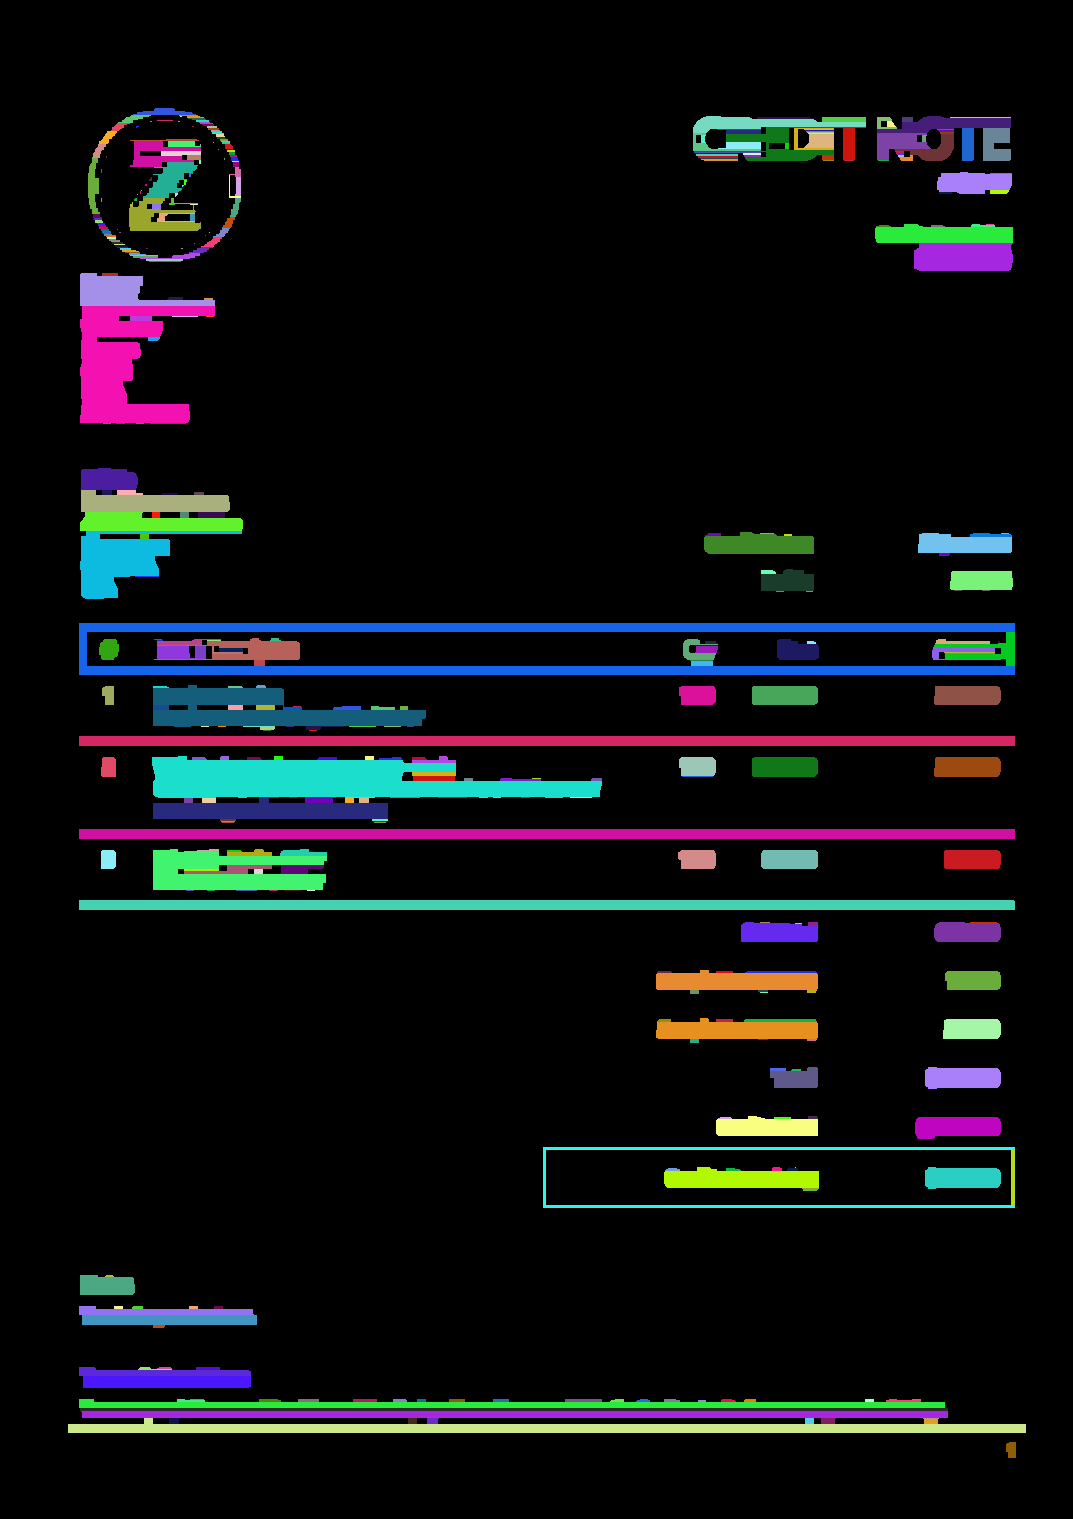
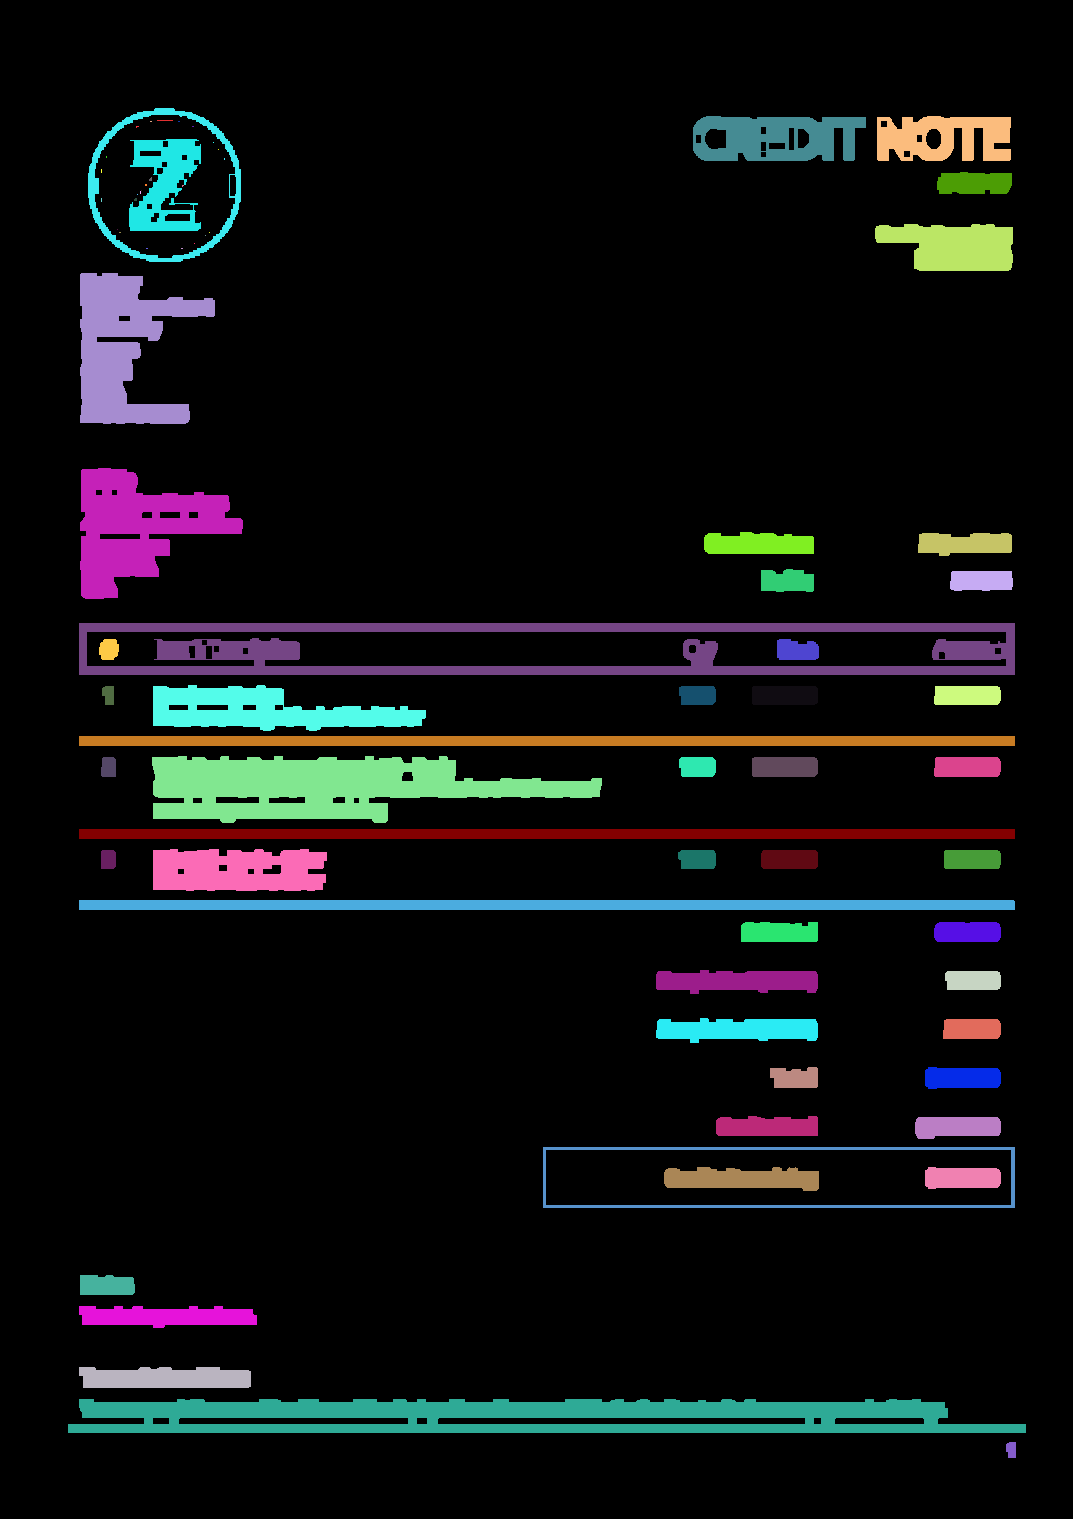
Segmentation v2

diff --git a/BoxIdentification.py b/BoxIdentification.py
@@ -1,6 +1,7 @@
 import cv2
 import numpy as np
 import utilities as utl
+from collections import deque
 
 def showImage(img, imgName):
 	resimg = img[0]
@@ -32,20 +33,16 @@ showImage([img,imgFil3,img1], 'img')
 
 
 def MarkSegment(seg, i, j, segmentCount):
-	seg[i][j] = segmentCount
-	## Mark Right
-	k = j+1
-	while seg[i][k] == -1:
-		seg[i][k] = segmentCount
-		k += 1
-	## Mark Left
-	k = j-1
-	while seg[i][k] == -1:
-		seg[i][k] = segmentCount
-		k -= 1 
-	if seg[i+1][j] == -1: MarkSegment(seg, i+1, j, segmentCount)
+	queue = deque()
+	queue.append((i,j))
+	while len(queue):
+		i, j = queue.pop()
+		seg[i][j] = segmentCount
+		if seg[i-1][j] == -1: queue.append((i-1,j))
+		if seg[i+1][j] == -1: queue.append((i+1,j))
+		if seg[i][j+1] == -1: queue.append((i,j+1))
+		if seg[i][j-1] == -1: queue.append((i,j-1))
 	return 
-
 
 segmentCount = 0
 h, w = filterImg.shape
@@ -56,6 +53,8 @@ for i in range(1,h-1):
 			segmentCount += 1
 			print(segmentCount, end='\r', flush = True)
 			MarkSegment(segLabel, i, j ,segmentCount)
+
+
 
 print(np.any(segLabel<0), np.any(segLabel>255), segmentCount)
 seg = utl.GetColoredSegmentationMask(segLabel, segmentCount)
